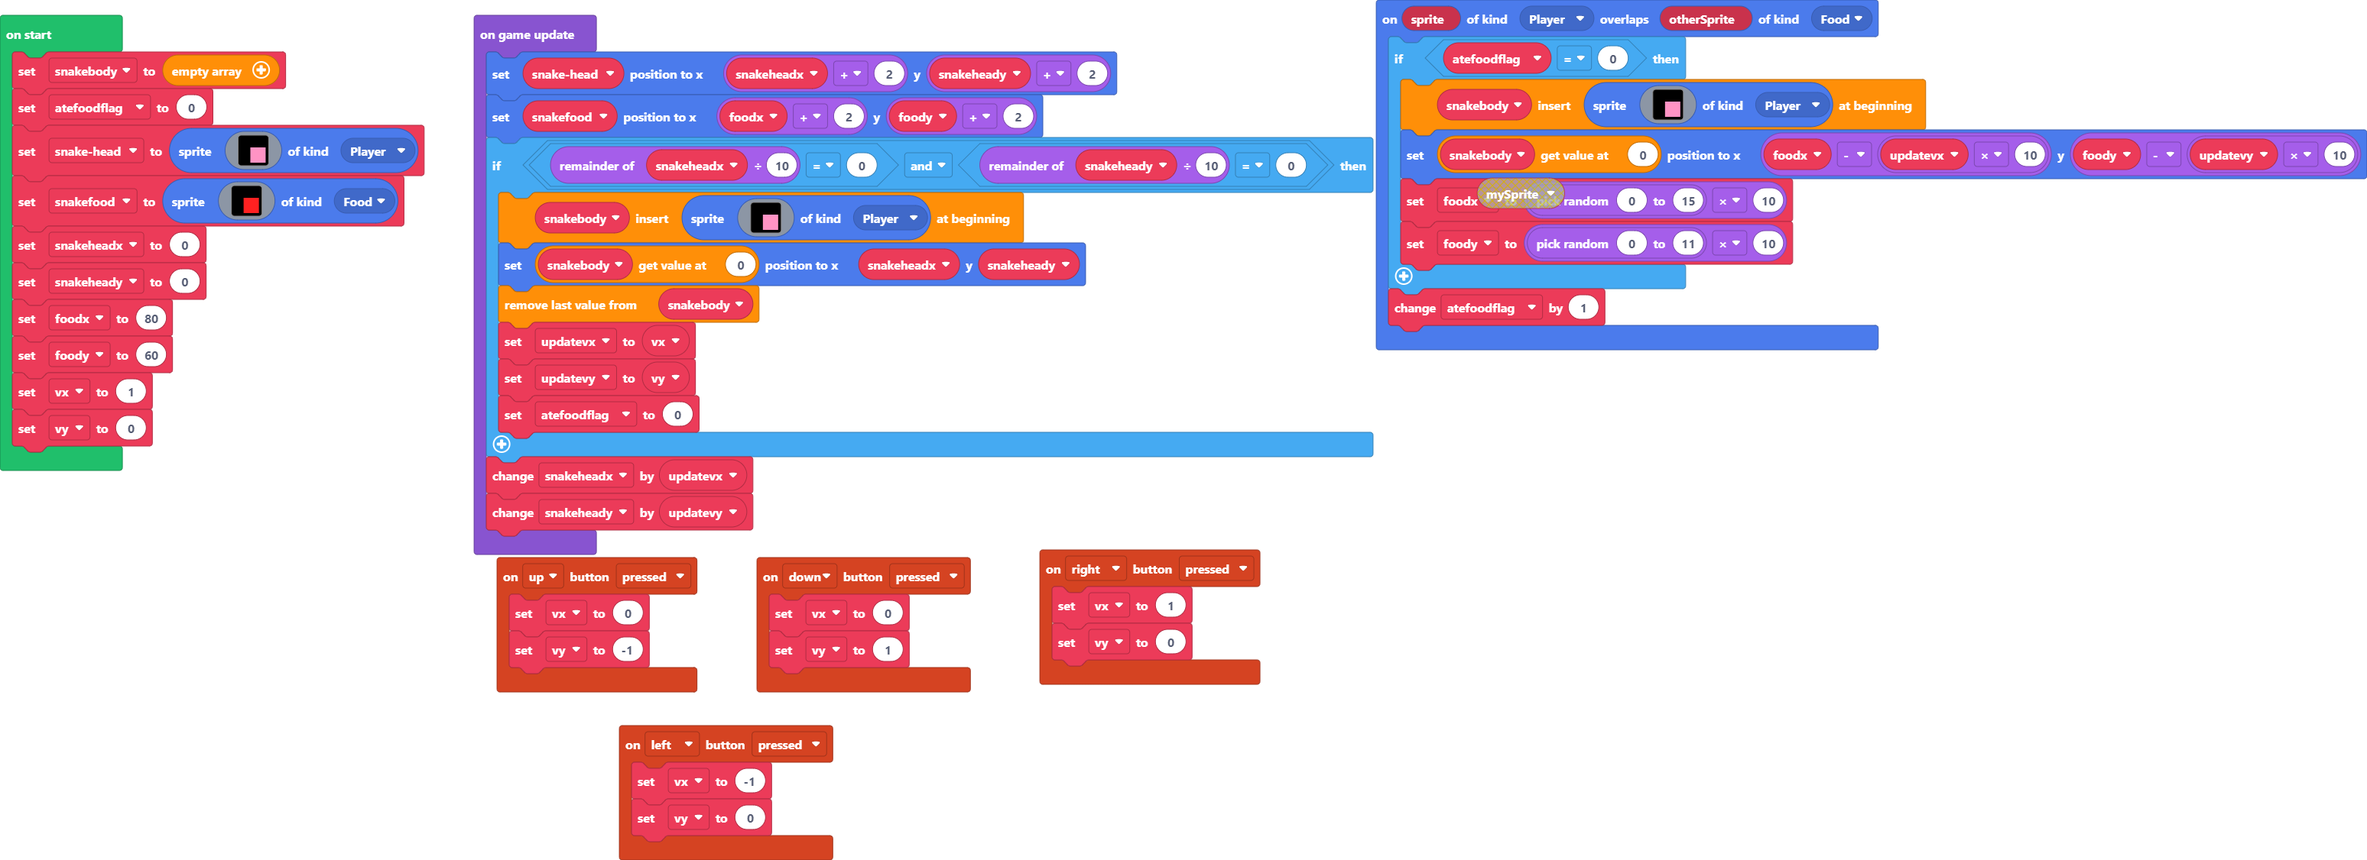
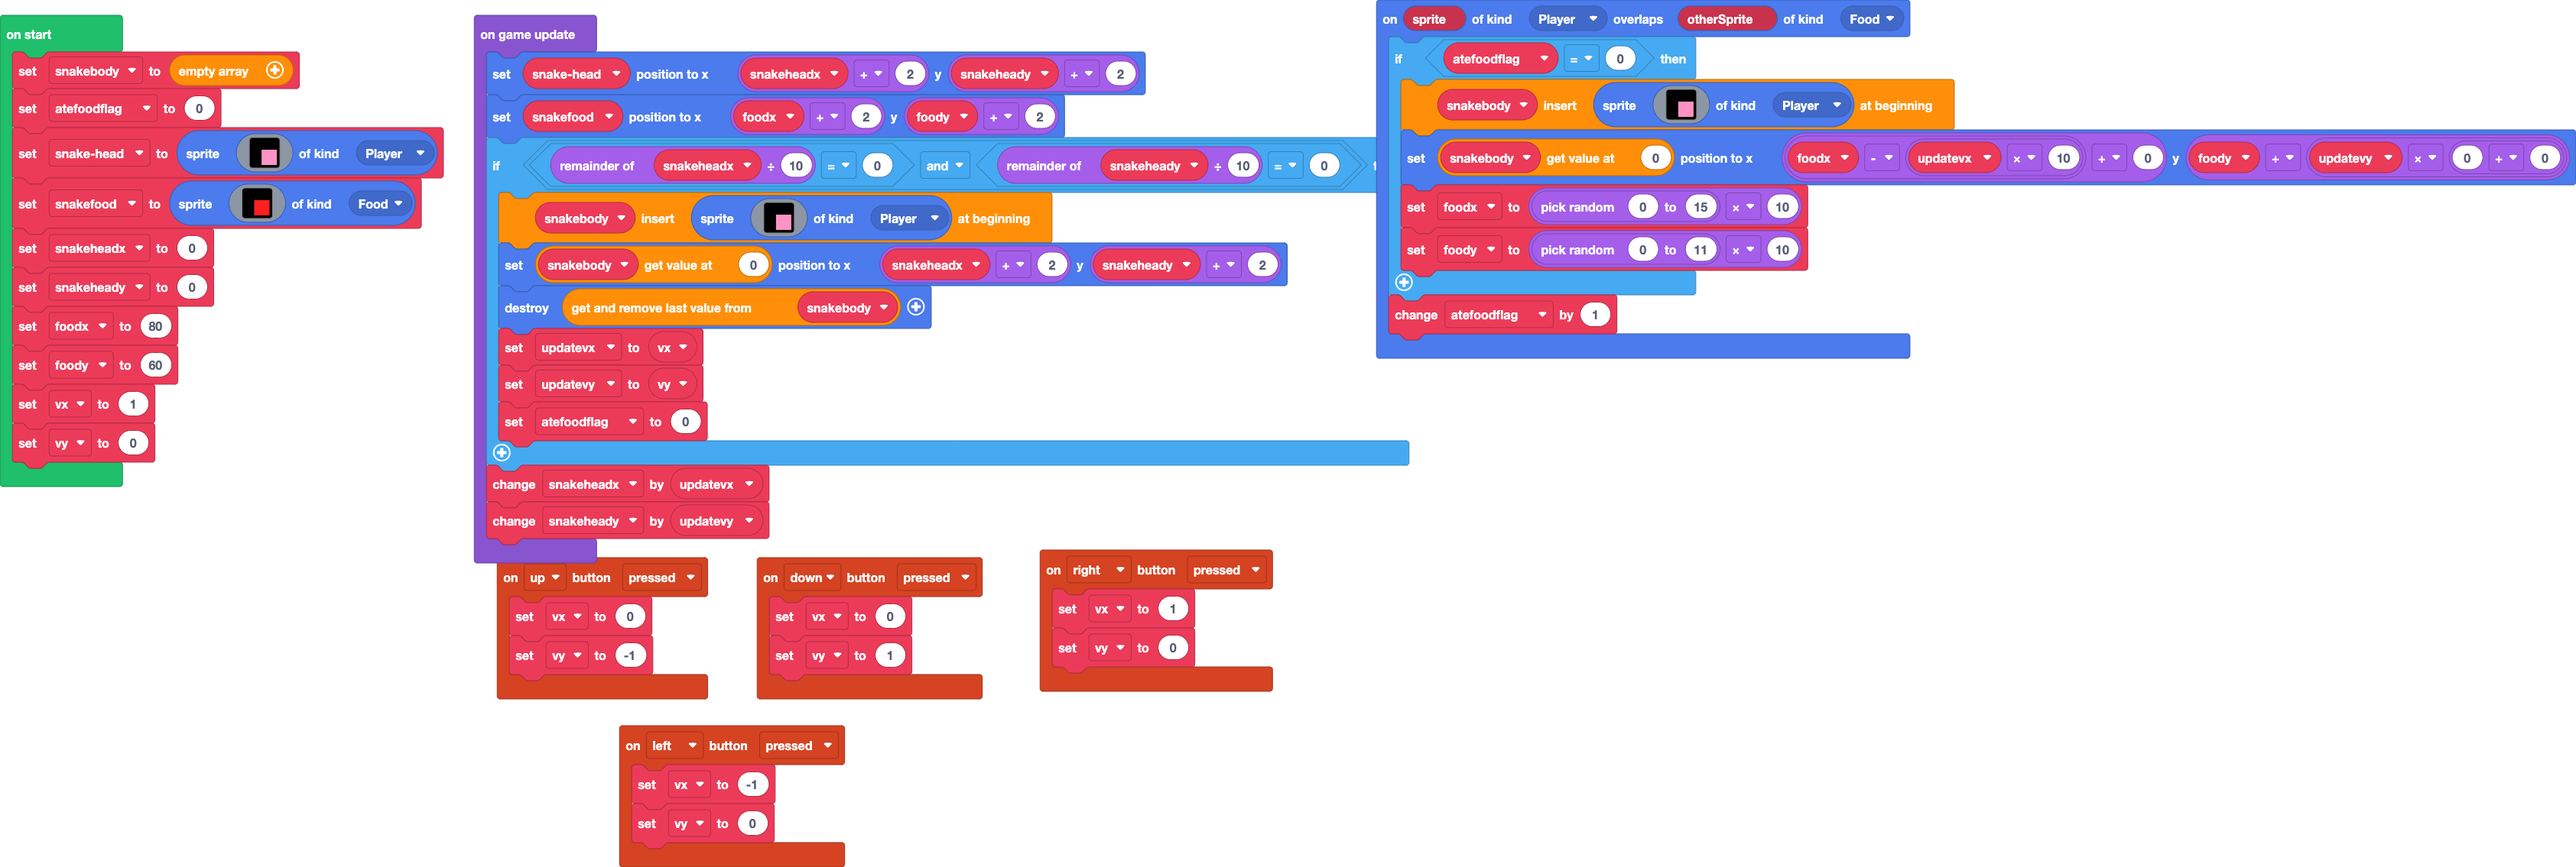
fixed snake body

Changed region(s): [[0.0, 0.0, 1.0, 1.0]]

diff --git a/main.ts b/main.ts
@@ -34,7 +34,7 @@ sprites.onOverlap(SpriteKind.Player, SpriteKind.Food, function (sprite, otherSpr
             . . . . . . 3 3 3 3 3 3 3 3 3 3 
             . . . . . . 3 3 3 3 3 3 3 3 3 3 
             `, SpriteKind.Player))
-        snakebody[0].setPosition(foodx - updatevx * 10, foody - updatevy * 10)
+        snakebody[0].setPosition(foodx - updatevx * 10 + 0, foody + updatevy * (0 + 0))
         foodx = randint(0, 15) * 10
         foody = randint(0, 11) * 10
     }
@@ -114,8 +114,8 @@ game.onUpdate(function () {
             . . . . . . 3 3 3 3 3 3 3 3 3 3 
             . . . . . . 3 3 3 3 3 3 3 3 3 3 
             `, SpriteKind.Player))
-        snakebody[0].setPosition(snakeheadx, snakeheady)
-        snakebody.pop()
+        snakebody[0].setPosition(snakeheadx + 2, snakeheady + 2)
+        snakebody.pop().destroy()
         updatevx = vx
         updatevy = vy
         atefoodflag = 0
